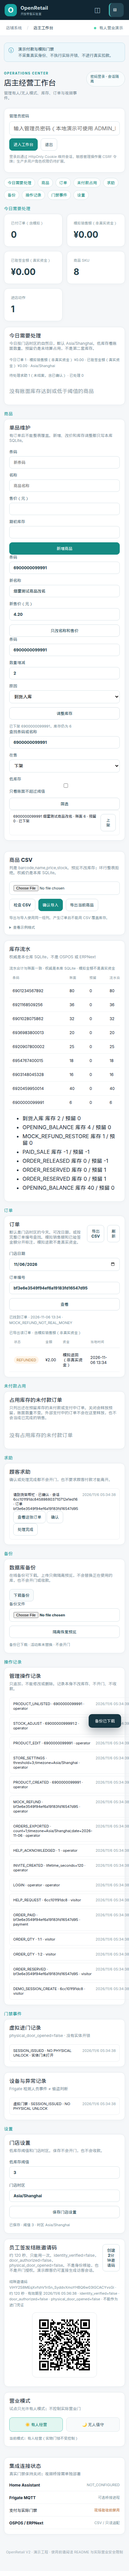
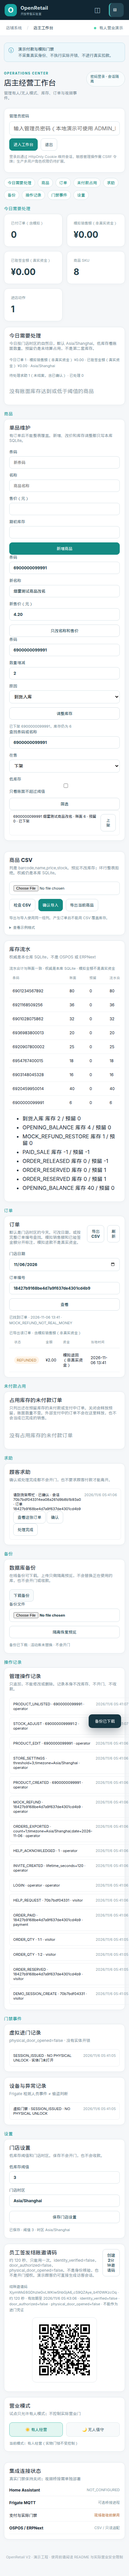
Reject a second unpaid order in the same guest session.
A new request id returns 409 without reserving more stock, and the settle buttons ignore a second click while one checkout is in flight.

diff --git a/tests/test_one_unpaid_order.py b/tests/test_one_unpaid_order.py
@@ -1,0 +1,50 @@
+"""One session may hold only one unpaid order. A second checkout must not reserve again."""
+from conftest import visitor
+
+
+def snapshot(client, product_id):
+    with client.app.state.db.connect() as conn:
+        row=conn.execute('SELECT stock,reserved_stock FROM products WHERE id=?',(product_id,)).fetchone()
+        orders=conn.execute('SELECT COUNT(*) n FROM orders').fetchone()['n']
+        moves=conn.execute('SELECT COUNT(*) n FROM stock_movements WHERE product_id=?',(product_id,)).fetchone()['n']
+        doors=conn.execute('SELECT COUNT(*) n FROM door_events').fetchone()['n']
+    return row['stock'],row['reserved_stock'],orders,moves,doors
+
+
+def test_second_unpaid_order_is_rejected_until_the_first_is_closed(client, admin_header):
+    assert client.post('/api/orders',json={'request_id':'no-session-order-01','lines':[{'product_id':1,'quantity':1}]}).status_code==401
+    guest=visitor(client)
+    other=visitor(client)
+    product=client.get('/api/products').json()[0]
+    first=client.post('/api/orders',headers=guest,json={'request_id':'one-unpaid-first-0001',
+        'lines':[{'product_id':product['id'],'quantity':1}]})
+    assert first.status_code==201
+    order=first.json()
+    assert order['status']=='PENDING' and order['expires_at']==order['created_at']+900
+    held=snapshot(client,product['id'])
+    duplicate=client.post('/api/orders',headers=guest,json={'request_id':'one-unpaid-second-0002',
+        'lines':[{'product_id':product['id'],'quantity':1}]})
+    assert duplicate.status_code==409
+    assert duplicate.json()['detail']=='已有待付款订单，请先完成付款或取消订单'
+    assert snapshot(client,product['id'])==held
+    assert client.get('/api/admin/inventory-ledger',headers=admin_header).json()['balanced'] is True
+    replay=client.post('/api/orders',headers=guest,json={'request_id':'one-unpaid-first-0001',
+        'lines':[{'product_id':product['id'],'quantity':1}]})
+    assert replay.status_code==201 and replay.json()['id']==order['id']
+    assert snapshot(client,product['id'])==held
+    theirs=client.post('/api/orders',headers=other,json={'request_id':'one-unpaid-other-0003',
+        'lines':[{'product_id':product['id'],'quantity':1}]})
+    assert theirs.status_code==201 and theirs.json()['id']!=order['id']
+    assert snapshot(client,product['id'])[1]==held[1]+1
+    cancelled=client.post('/api/orders/'+order['id']+'/cancel',headers=guest)
+    assert cancelled.status_code==200 and cancelled.json()['status']=='CANCELLED'
+    again=client.post('/api/orders',headers=guest,json={'request_id':'one-unpaid-after-cancel',
+        'lines':[{'product_id':product['id'],'quantity':1}]})
+    assert again.status_code==201 and again.json()['id']!=order['id']
+    paid=client.post('/api/payments/mock-confirm',headers=guest,json={'order_id':again.json()['id']})
+    assert paid.status_code==200 and paid.json()['payment_kind']=='MOCK_NOT_REAL_MONEY' and paid.json()['real_money'] is False
+    after_pay=client.post('/api/orders',headers=guest,json={'request_id':'one-unpaid-after-pay',
+        'lines':[{'product_id':product['id'],'quantity':1}]})
+    assert after_pay.status_code==201
+    assert client.post('/api/orders/'+after_pay.json()['id']+'/refund',headers=guest).status_code==404
+    assert client.get('/api/admin/overview',headers=admin_header).json()['real_door_enabled'] is False

diff --git a/tests/test_listing.py b/tests/test_listing.py
@@ -27,12 +27,13 @@ def test_unlist_blocks_sale_and_relist_restores_it_without_stock_changes(client,
     assert all(row['barcode']!='6900000077773' for row in client.get('/api/products').json())
     lookup=client.get('/api/products/by-barcode/6900000077773')
     assert lookup.status_code==409 and '已下架' in lookup.json()['detail']
-    assert client.post('/api/orders', headers=guest, json={'request_id':'cannot-buy-unlisted',
+    buyer=visitor(client)
+    assert client.post('/api/orders', headers=buyer, json={'request_id':'cannot-buy-unlisted',
         'lines':[{'product_id':created['id'], 'quantity':1}]}).status_code==422
     shown=client.post('/api/admin/products/'+str(created['id'])+'/listing', headers=admin_header, json={'active':True})
     assert shown.status_code==200 and shown.json()['active'] is True and shown.json()['stock']==8
     assert client.get('/api/products/by-barcode/6900000077773').status_code==200
-    sold=client.post('/api/orders', headers=guest, json={'request_id':'buy-after-relist',
+    sold=client.post('/api/orders', headers=buyer, json={'request_id':'buy-after-relist',
         'lines':[{'product_id':created['id'], 'quantity':1}]})
     assert sold.status_code==201
     again=client.post('/api/admin/products/'+str(seeded['id'])+'/listing', headers=admin_header, json={'active':False})

diff --git a/tests/test_scan_errors.py b/tests/test_scan_errors.py
@@ -13,6 +13,7 @@ def levels(client, product_id):
 
 def test_unknown_unlisted_and_oversell_leave_stock_alone(client, admin_header):
     guest=visitor(client)
+    buyer=visitor(client)
     before=client.get('/api/products').json()
     missing=client.get('/api/products/by-barcode/0000000000000')
     assert missing.status_code==404 and missing.json()['detail']=='未找到条码'
@@ -38,7 +39,7 @@ def test_unknown_unlisted_and_oversell_leave_stock_alone(client, admin_header):
     assert hidden.status_code==200 and hidden.json()['stock']==2
     lookup=client.get('/api/products/by-barcode/6900000082008')
     assert lookup.status_code==409 and lookup.json()['detail']=='该商品已下架，暂不销售'
-    refused=client.post('/api/orders',headers=guest,json={'request_id':'scan-unlisted-0003',
+    refused=client.post('/api/orders',headers=buyer,json={'request_id':'scan-unlisted-0003',
         'lines':[{'product_id':made['id'],'quantity':1}]})
     assert refused.status_code==422 and '已下架' in refused.json()['detail']
     grown=client.post(f"/api/orders/{created['id']}/lines",headers=guest,json={'product_id':made['id'],'quantity':3})

diff --git a/tests/test_ops_summary.py b/tests/test_ops_summary.py
@@ -74,9 +74,9 @@ def test_shanghai_early_morning_counts_today_and_threshold_update_hides_stock_fi
     product=client.get('/api/products').json()[0]
     morning=client.post('/api/orders', headers=guest, json={'request_id':'shanghai-0100-today',
         'lines':[{'product_id':product['id'], 'quantity':1}]}).json()
+    assert client.post('/api/payments/mock-confirm', headers=guest, json={'order_id':morning['id']}).json()['payment_kind']=='MOCK_NOT_REAL_MONEY'
     evening=client.post('/api/orders', headers=guest, json={'request_id':'shanghai-previous-evening',
         'lines':[{'product_id':product['id'], 'quantity':1}]}).json()
-    assert client.post('/api/payments/mock-confirm', headers=guest, json={'order_id':morning['id']}).json()['payment_kind']=='MOCK_NOT_REAL_MONEY'
     assert client.post('/api/payments/mock-confirm', headers=guest, json={'order_id':evening['id']}).json()['real_money'] is False
     with client.app.state.db.tx() as conn:
         conn.execute('UPDATE orders SET created_at=?, paid_at=? WHERE id=?', (int(one_am.timestamp()), int(one_am.timestamp()), morning['id']))

diff --git a/tests/test_today_orders.py b/tests/test_today_orders.py
@@ -17,9 +17,9 @@ def test_today_orders_and_csv_keep_mock_money_separate(client, admin_header):
     product=client.get('/api/products').json()[0]
     morning=client.post('/api/orders', headers=guest, json={'request_id':'today-list-0100',
         'lines':[{'product_id':product['id'], 'quantity':1}]}).json()
+    assert client.post('/api/payments/mock-confirm', headers=guest, json={'order_id':morning['id']}).json()['payment_kind']=='MOCK_NOT_REAL_MONEY'
     evening=client.post('/api/orders', headers=guest, json={'request_id':'today-list-previous',
         'lines':[{'product_id':product['id'], 'quantity':1}]}).json()
-    assert client.post('/api/payments/mock-confirm', headers=guest, json={'order_id':morning['id']}).json()['payment_kind']=='MOCK_NOT_REAL_MONEY'
     assert client.post('/api/payments/mock-confirm', headers=guest, json={'order_id':evening['id']}).json()['real_money'] is False
     with client.app.state.db.tx() as conn:
         conn.execute('UPDATE orders SET created_at=?, paid_at=? WHERE id=?', (int(one_am.timestamp()), int(one_am.timestamp()), morning['id']))

diff --git a/tests/test_order_day.py b/tests/test_order_day.py
@@ -20,9 +20,9 @@ def test_chosen_date_and_order_lookup_keep_mock_money_separate(client, admin_hea
     product=client.get('/api/products').json()[0]
     morning=client.post('/api/orders', headers=guest, json={'request_id':'day-lookup-0100',
         'lines':[{'product_id':product['id'], 'quantity':1}]}).json()
+    assert client.post('/api/payments/mock-confirm', headers=guest, json={'order_id':morning['id']}).json()['real_money'] is False
     earlier=client.post('/api/orders', headers=guest, json={'request_id':'day-lookup-yesterday',
         'lines':[{'product_id':product['id'], 'quantity':1}]}).json()
-    assert client.post('/api/payments/mock-confirm', headers=guest, json={'order_id':morning['id']}).json()['real_money'] is False
     assert client.post('/api/payments/mock-confirm', headers=guest, json={'order_id':earlier['id']}).json()['payment_kind']=='MOCK_NOT_REAL_MONEY'
     with client.app.state.db.tx() as conn:
         conn.execute('UPDATE orders SET created_at=?, paid_at=? WHERE id=?', (int(one_am.timestamp()), int(one_am.timestamp()), morning['id']))

diff --git a/openretail/main.py b/openretail/main.py
@@ -508,6 +508,8 @@ def create_app(settings:Settings|None=None)->FastAPI:
             if old:
                 if old['fingerprint']!=fp:abort(409,'同一幂等键不能用于不同购物车')
                 return row_order(c,old['id'])
+            if c.execute('''SELECT id FROM orders WHERE session_id=? AND status IN ('PENDING','PAYMENT_PENDING')''',(sid,)).fetchone():
+                abort(409,'已有待付款订单，请先完成付款或取消订单')
             prepared=[];total=0
             for pid,q in sorted(aggregate.items()):
                 p=c.execute('SELECT * FROM products WHERE id=? AND active=1',(pid,)).fetchone()

diff --git a/docs/PROJECT_STATUS.md b/docs/PROJECT_STATUS.md
@@ -4,6 +4,18 @@
 
 完全无人值守经营仍是 **NOT_APPROVED**。示例配置里的真实支付和实体开锁都是关闭的。
 
+## 本增量（同一会话只保留一张未付款订单）
+
+已在代码和测试里做到，并在本机复跑：
+
+- 会话里已经有 `PENDING` 或 `PAYMENT_PENDING` 时，用新的请求号再下单返回 409「已有待付款订单，请先完成付款或取消订单」。不会插入新订单，也不会再预留库存或写流水。同一个请求号仍然返回原来的订单。
+- 取消、按原规则超时释放，或付款（含模拟支付）之后，同一会话可以再下一单。别的会话不受这张未付款订单阻挡，只受可售库存限制。未登录下单仍是 401。
+- 顾客页的结算、创建订单和模拟确认付款在请求进行中不会再发第二次。被拒绝的重复下单会把已有未付款订单（含「预留至」）显示出来。演示结账仍不需要邀请码。900 秒预留和外部支付中的释放规则没有改。
+
+`/tmp/openretail-venv/bin/python -m pytest -q`（工作目录 `/workspace`，Python 3.12.3）：**71 passed，1 warning，7.20s，退出码 0**。警告仍是 Starlette 的 `httpx` TestClient 弃用提示。71 = 上一轮 70 + 本增量 1。
+
+`scripts/ui_bridge_smoke.py` 在去掉密钥环境变量后退出码 0。顾客没有领取邀请码，仍用「生成访客会话」完成 ¥2.00 模拟支付，并含「模拟支付成功 · 非真实资金 · 已扣库存」。重复下单由 pytest 核对，没有做不稳定的双击。390 宽 `scrollWidth` 390，1440 宽 `scrollWidth` 1440，`pageerror` 为空。这仍是 Chrome 到 TestClient 的桥，不是真机，也不是真实收款。
+
 ## 本增量（结账邀请码的失败提示和审计）
 
 已在代码和测试里做到，并在本机复跑：
